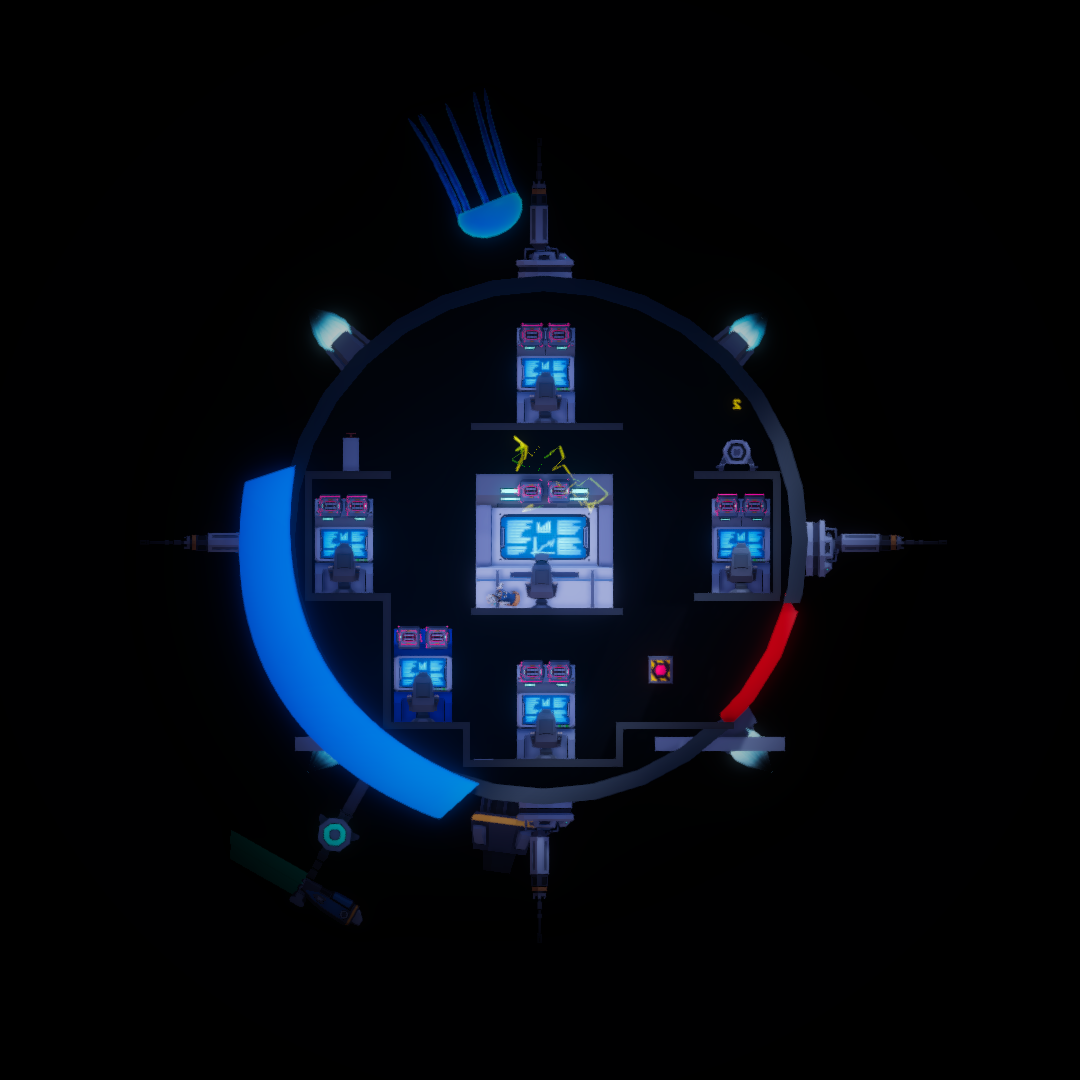
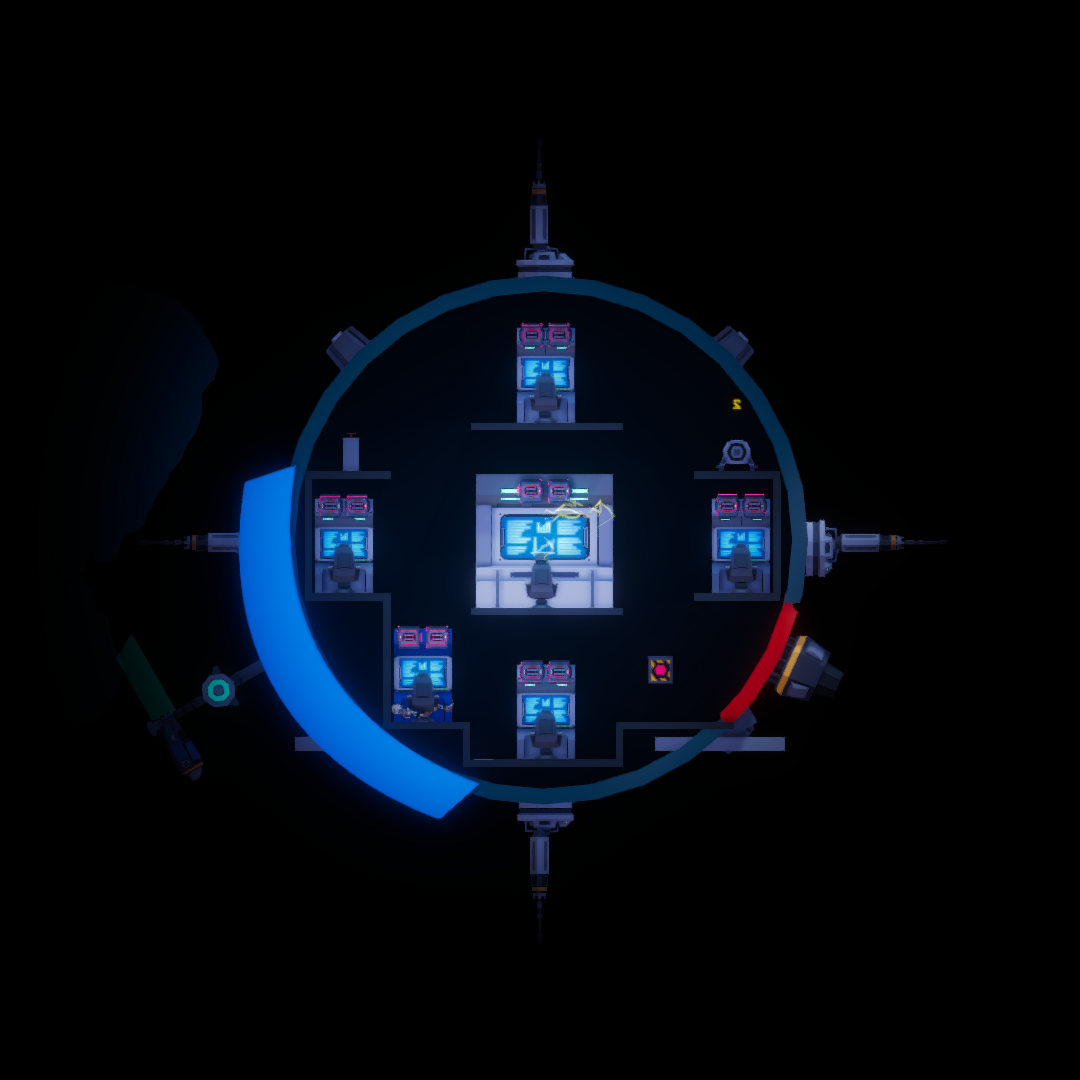
Ragdoll Attack Fix Part 5

diff --git a/Assets/Scripts/AI/MegalodonRagdollAttack.cs b/Assets/Scripts/AI/MegalodonRagdollAttack.cs
@@ -54,6 +54,8 @@ public class MegalodonRagdollAttack : GAction
 
         _goToZPos = true;
 
+        GAgent.StateMachine.Attack(5, false);
+
         return true;
     }
 
@@ -75,6 +77,13 @@ public class MegalodonRagdollAttack : GAction
         GetToZPos();
     }
 
+    private void LateUpdate()
+    {
+        if (!_hitShip) { return; }
+
+        Ship.Instance.transform.position = _mouthTransform.transform.position;
+    }
+
     private void GetToZPos()
     {
         if (_goToZPos == false) { return; }
@@ -85,15 +94,13 @@ public class MegalodonRagdollAttack : GAction
 
     public override bool Perform()
     {
-        if (!_hitShip) { return true; }
-
-        GAgent.StateMachine.Attack(5, false);
-
         return true;
     }
 
     public override bool PostPeform()
     {
+        _hitShip = false;
+
         GAgent.StateMachine.Rb.isKinematic = _prevIsKinematic;
         GAgent.StateMachine.Rb.useGravity = _prevUseGravity;
 
@@ -109,6 +116,7 @@ public class MegalodonRagdollAttack : GAction
         GWorld.Instance.GetWorld().ModifyState(_attackFreeItemName.ToString(), 1);
 
         Ship.Instance.FreezeShip(false);
+        Ship.Instance.Rb.AddForce(Vector3.right * 50f, ForceMode.VelocityChange);
 
         transform.localScale = _prevSize;
 

diff --git a/Assets/Scripts/AI/Megalodon.cs b/Assets/Scripts/AI/Megalodon.cs
@@ -70,15 +70,5 @@ public class Megalodon : GAgent
                 break;
         }
     }
-
-    public void Rotate180()
-    {
-        //Debug.Log("Rotate180");
-        ////float yRotationValue = Mathf.SmoothDamp(transform.eulerAngles.y, _currentYTarget, ref _yRotVel, _yRotSmoothTime);
-
-        //Quaternion targetRotation = Quaternion.Euler(0f, _currentYTarget, 90f);
-
-        //transform.rotation = targetRotation;
-    }
 }
 
